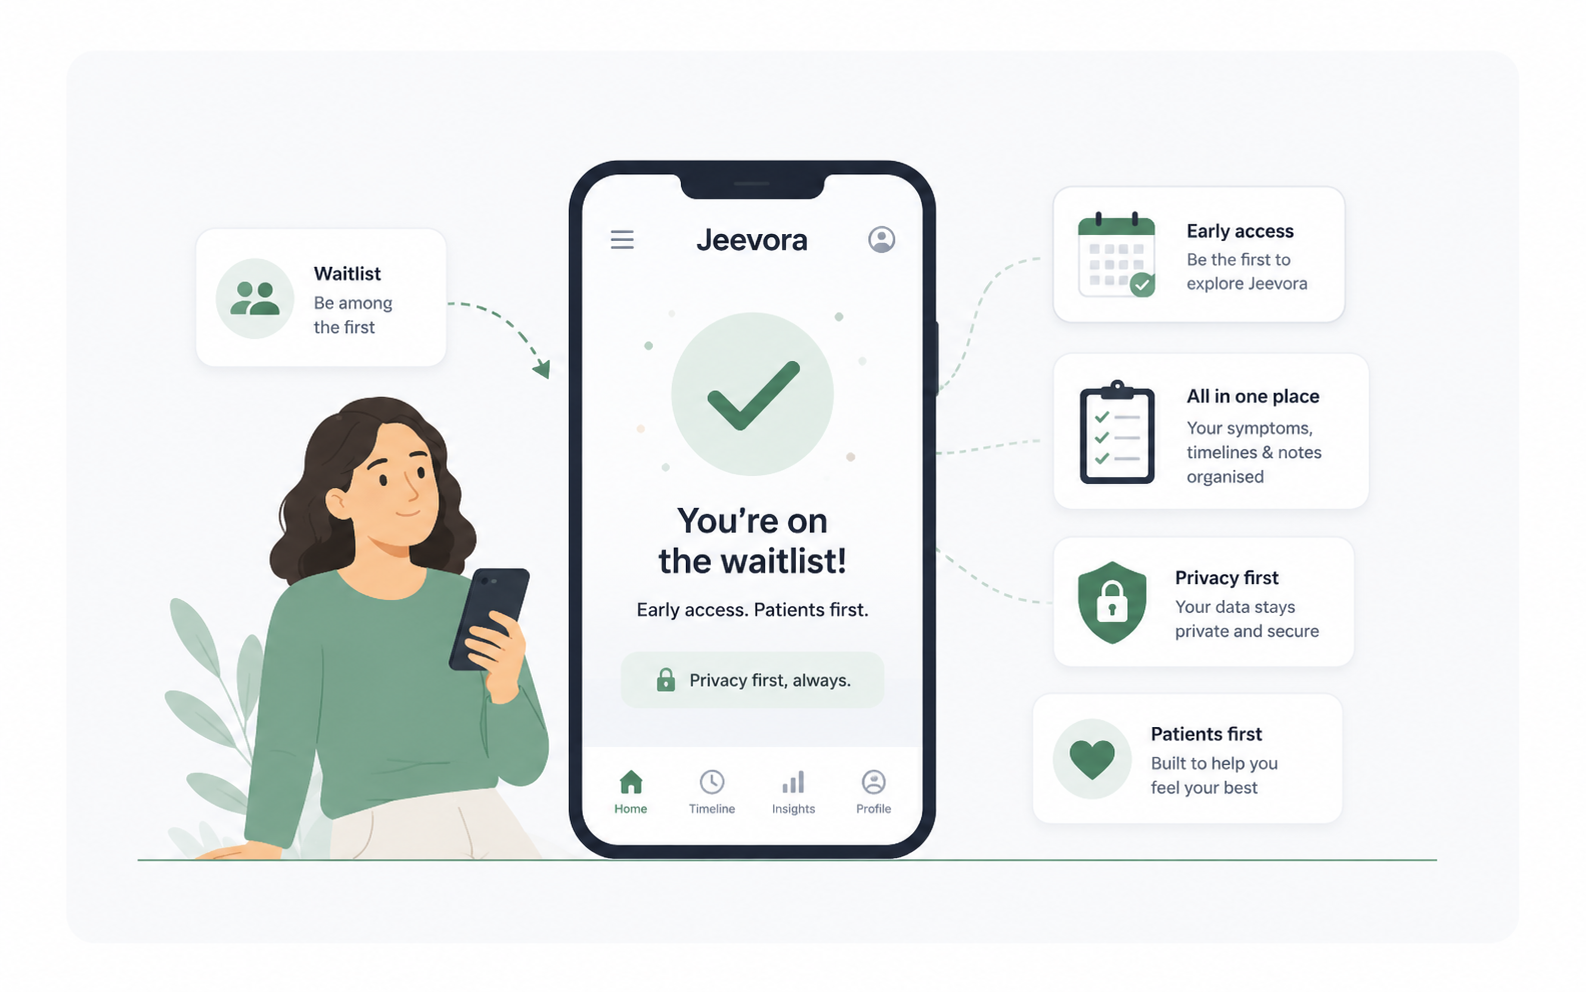
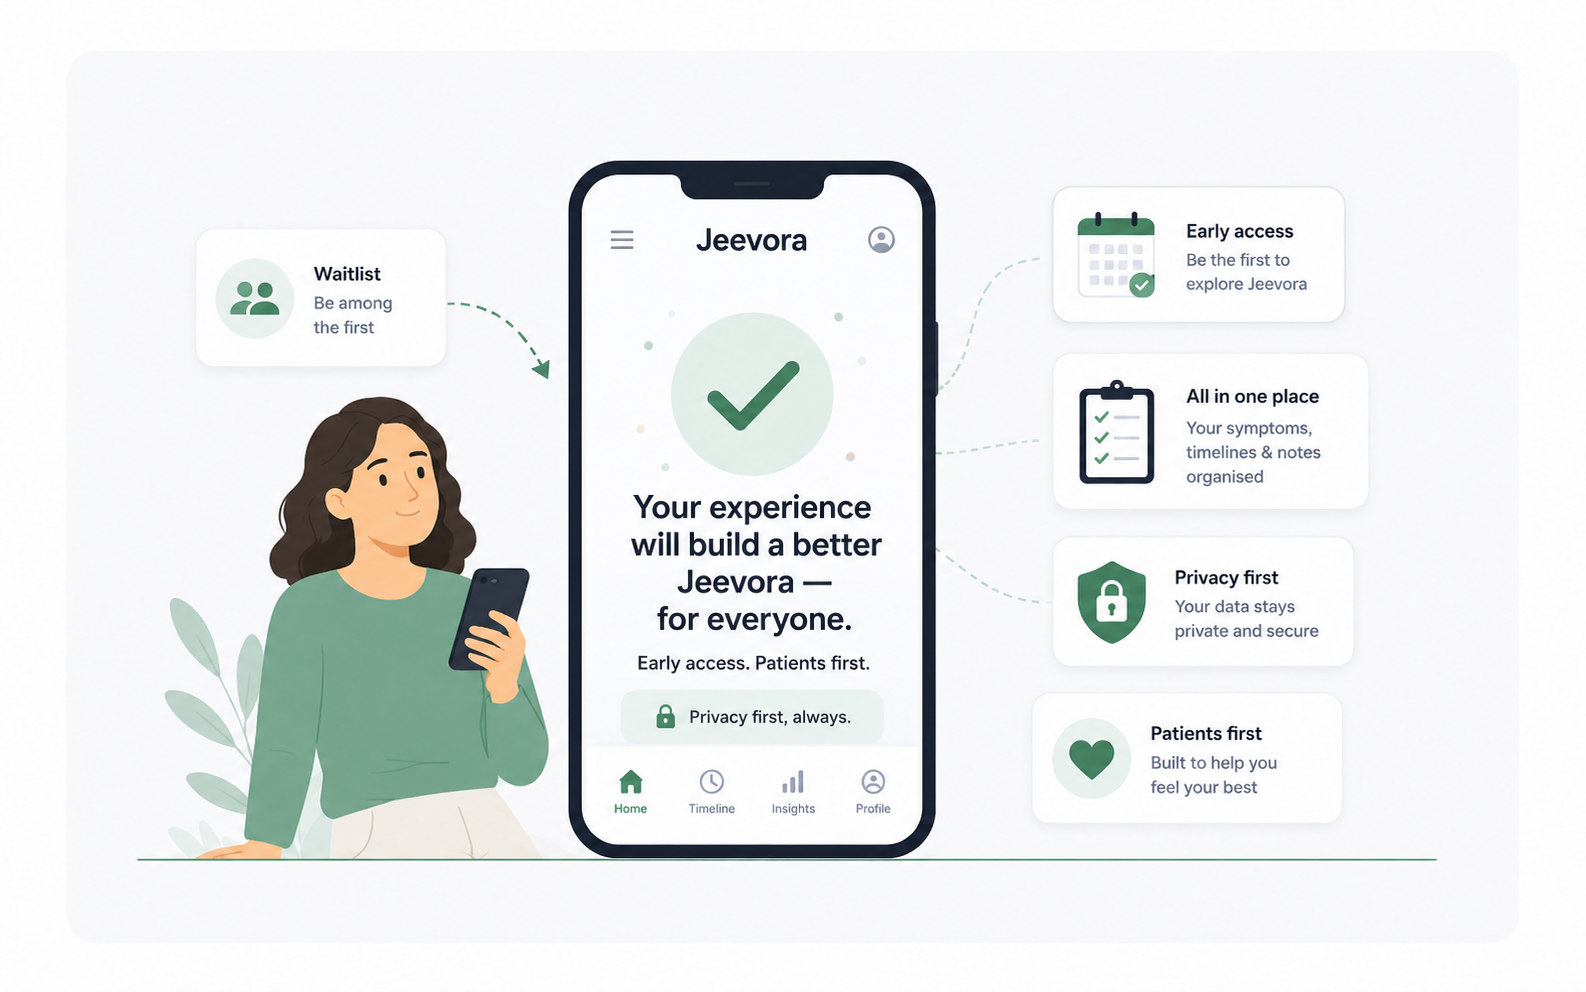
Rebrand: rename Jeevora to Jeevora Care across the entire site
Updated all visible references — site title, logo text, meta descriptions,
footer copyright, navigation, page content, GP report preview, and all
descriptive copy — from Jeevora to Jeevora Care.

diff --git a/middleware.js b/middleware.js
@@ -1,0 +1,30 @@
+import { NextResponse } from "next/server";
+
+export function middleware(request) {
+  const authHeader = request.headers.get("authorization");
+
+  if (authHeader) {
+    const [scheme, encoded] = authHeader.split(" ");
+    if (scheme === "Basic" && encoded) {
+      const decoded = Buffer.from(encoded, "base64").toString("utf-8");
+      const [user, pass] = decoded.split(":");
+      if (
+        user === process.env.ADMIN_USER &&
+        pass === process.env.ADMIN_PASS
+      ) {
+        return NextResponse.next();
+      }
+    }
+  }
+
+  return new NextResponse("Unauthorized", {
+    status: 401,
+    headers: {
+      "WWW-Authenticate": 'Basic realm="Jeevora Admin"',
+    },
+  });
+}
+
+export const config = {
+  matcher: ["/admin/:path*"],
+};

diff --git a/layouts/partials/FreeDemoSection.js b/layouts/partials/FreeDemoSection.js
@@ -606,7 +606,7 @@ function ScreenGPReport() {
           </div>
           {/* Disclaimer */}
           <div style={{ fontSize:7, color:"#4b5563", lineHeight:1.5, marginBottom:8 }}>
-            Jeevora does not diagnose, recommend treatment, or replace medical advice. This report is a patient context tool only.
+            Jeevora Care does not diagnose, recommend treatment, or replace medical advice. This report is a patient context tool only.
           </div>
           {/* Download CTA */}
           <div style={{ background:G, borderRadius:20, padding:"9px", textAlign:"center", fontSize:10, fontWeight:700, color:"#fff" }}>Download PDF for GP</div>
@@ -863,13 +863,13 @@ const SCREENS_2 = [<ScreenMeds/>, <ScreenWearable/>];
 
 const FEATURES_1 = [
   { label:"Home dashboard",  heading:"Your unified daily view",     desc:"Wearable stats, today's entries, and a one-tap log button — all on one screen. Sleep quality and heart rate surface automatically from your connected device every morning." },
-  { label:"Symptom logging", heading:"SOCRATES, step by step",      desc:"Jeevora guides you through the clinical SOCRATES framework — onset, character, severity, and more. Chip selectors keep it quick; the voice fallback means you never have to type." },
-  { label:"Voice logging",   heading:"Just speak, we'll listen",    desc:"Tap record, describe your symptom naturally, and watch the fields populate in real time. Jeevora parses your words so nothing gets lost on the way to your GP report." },
+  { label:"Symptom logging", heading:"SOCRATES, step by step",      desc:"Jeevora Care guides you through the clinical SOCRATES framework — onset, character, severity, and more. Chip selectors keep it quick; the voice fallback means you never have to type." },
+  { label:"Voice logging",   heading:"Just speak, we'll listen",    desc:"Tap record, describe your symptom naturally, and watch the fields populate in real time. Jeevora Care parses your words so nothing gets lost on the way to your GP report." },
 ];
 
 const FEATURES_2 = [
   { label:"Medication tracking", heading:"Morning done. Evening pending.",         desc:"See your full medication schedule at a glance. Green ticks confirm what's taken; amber alerts flag anything missed. Forgotten doses are automatically noted in your next GP report." },
-  { label:"Wearable linkage",    heading:"Your wrist knows things your GP doesn't — yet.",   desc:"Sleep, heart rate, HRV, steps — pulled automatically from Apple Watch, Fitbit, Garmin, and more. Jeevora reads the patterns hiding in your data and surfaces them to your doctor before they become problems." },
+  { label:"Wearable linkage",    heading:"Your wrist knows things your GP doesn't — yet.",   desc:"Sleep, heart rate, HRV, steps — pulled automatically from Apple Watch, Fitbit, Garmin, and more. Jeevora Care reads the patterns hiding in your data and surfaces them to your doctor before they become problems." },
 ];
 
 const SCREENS_3 = [<ScreenFood/>, <ScreenWorkout/>];
@@ -877,12 +877,12 @@ const SCREENS_4 = [<ScreenGPReport/>, <ScreenAppointmentPrep/>];
 
 const FEATURES_3 = [
   { label:"Nutrition tracking", heading:"Log meals in seconds",    desc:"Tap to add what you ate — breakfast, lunch, dinner, snacks. Macros and calorie totals build automatically, and unusual dietary patterns surface in your GP report without you having to think about it." },
-  { label:"Exercise logging",   heading:"Move more, know more",    desc:"Log workouts manually or let your wearable sync them automatically. Jeevora connects exercise patterns to symptoms — so your GP sees exactly how your activity affects your health." },
+  { label:"Exercise logging",   heading:"Move more, know more",    desc:"Log workouts manually or let your wearable sync them automatically. Jeevora Care connects exercise patterns to symptoms — so your GP sees exactly how your activity affects your health." },
 ];
 
 const FEATURES_4 = [
-  { label:"GP-ready reports",    heading:"Your health story, told clearly",        desc:"Jeevora compiles every log into a structured, non-diagnostic summary — symptoms, medications, lifestyle patterns, missed doses — formatted for your GP to read in under two minutes." },
-  { label:"Appointment prep",    heading:"Never forget what is on your mind",          desc:"Note your questions and key concerns before you walk in. Jeevora surfaces the most important things to raise so nothing gets lost in a 10-minute appointment." },
+  { label:"GP-ready reports",    heading:"Your health story, told clearly",        desc:"Jeevora Care compiles every log into a structured, non-diagnostic summary — symptoms, medications, lifestyle patterns, missed doses — formatted for your GP to read in under two minutes." },
+  { label:"Appointment prep",    heading:"Never forget what is on your mind",          desc:"Note your questions and key concerns before you walk in. Jeevora Care surfaces the most important things to raise so nothing gets lost in a 10-minute appointment." },
 ];
 
 const SCREENS_5 = [<ScreenFoodLog/>, <ScreenPeriodLog/>];
@@ -1044,7 +1044,7 @@ export default function FreeDemoSection() {
       {/* ── Subsection 1: white bg · text LEFT · phone RIGHT ── */}
       <div style={{ background:"#fff", padding:"70px 0", borderTop:"1px solid #f1f5f9" }}>
         <div style={{ maxWidth:1140, margin:"0 auto", padding:"0 1.5rem" }}>
-          {sectionHeader("1","Log your health, your way","From a quick voice note to a structured SOCRATES symptom log — Jeevora works the way you think.")}
+          {sectionHeader("1","Log your health, your way","From a quick voice note to a structured SOCRATES symptom log — Jeevora Care works the way you think.")}
           <div className="jv-s1-row" style={{ display:"flex", alignItems:"stretch", gap:48, justifyContent:"center" }}>
             <div style={{ flex:"1 1 0", maxWidth:520 }}>
               <FeatureBlocks features={FEATURES_1} rowClass="jv-s1-row"/>
@@ -1070,7 +1070,7 @@ export default function FreeDemoSection() {
       {/* ── Subsection 3: white bg · text LEFT · phone RIGHT ── */}
       <div style={{ background:"#fff", padding:"70px 0", borderTop:"1px solid #f1f5f9" }}>
         <div style={{ maxWidth:1140, margin:"0 auto", padding:"0 1.5rem" }}>
-          {sectionHeader("3","Track how you fuel and move","Meals, macros, and workouts logged in seconds. Jeevora connects your lifestyle to your symptoms so your GP sees the complete picture.")}
+          {sectionHeader("3","Track how you fuel and move","Meals, macros, and workouts logged in seconds. Jeevora Care connects your lifestyle to your symptoms so your GP sees the complete picture.")}
           <div className="jv-s3-row" style={{ display:"flex", alignItems:"stretch", gap:48, justifyContent:"center" }}>
             <div style={{ flex:"1 1 0", maxWidth:520 }}>
               <FeatureBlocks features={FEATURES_3} rowClass="jv-s3-row"/>
@@ -1096,7 +1096,7 @@ export default function FreeDemoSection() {
       {/* ── Subsection 5: white bg · text LEFT · phone RIGHT ── */}
       <div style={{ background:"#fff", padding:"70px 0", borderTop:"1px solid #f1f5f9" }}>
         <div style={{ maxWidth:1140, margin:"0 auto", padding:"0 1.5rem" }}>
-          {sectionHeader("5","Track your cycle, understand your body","Log meals, symptoms, flow, and mood through your cycle. Jeevora connects the patterns so your GP has the full picture before you even walk in.")}
+          {sectionHeader("5","Track your cycle, understand your body","Log meals, symptoms, flow, and mood through your cycle. Jeevora Care connects the patterns so your GP has the full picture before you even walk in.")}
           <div className="jv-s5-row" style={{ display:"flex", alignItems:"stretch", gap:48, justifyContent:"center" }}>
             <div style={{ flex:"1 1 0", maxWidth:520 }}>
               <FeatureBlocks features={FEATURES_5} rowClass="jv-s5-row"/>

diff --git a/layouts/Contact.js b/layouts/Contact.js
@@ -81,7 +81,7 @@ const Contact = () => {
             margin: "0 0 16px",
             lineHeight: 1.2,
           }}>
-            Your experience builds a better Jeevora — for everyone.
+            Your experience builds a better Jeevora Care — for everyone.
           </h1>
           <p style={{
             fontSize: 17,
@@ -90,7 +90,7 @@ const Contact = () => {
             maxWidth: 480,
             margin: "0 auto 16px",
           }}>
-            You know what it feels like to sit in a 10-minute appointment and forget half of what you meant to say. We're building Jeevora so that never happens again — and we need patients like you to get it right.
+            You know what it feels like to sit in a 10-minute appointment and forget half of what you meant to say. We're building Jeevora Care so that never happens again — and we need patients like you to get it right.
           </p>
           <p style={{
             fontSize: 17,
@@ -302,7 +302,7 @@ const Contact = () => {
                 marginTop: 14,
                 lineHeight: 1.5,
               }}>
-                No spam. We'll only reach out when Jeevora is ready for you.
+                No spam. We'll only reach out when Jeevora Care is ready for you.
               </p>
             </form>
           )}

diff --git a/app/layout.js b/app/layout.js
@@ -6,8 +6,8 @@ import Providers from "@layouts/partials/Providers";
 import "../styles/style.scss";
 
 export const metadata = {
-  title: "Jeevora",
-  description: "Jeevora – Your trusted health platform",
+  title: "Jeevora Care",
+  description: "Jeevora Care – Your trusted health platform",
 };
 
 export default function RootLayout({ children }) {

diff --git a/layouts/Product.js b/layouts/Product.js
@@ -37,9 +37,9 @@ const Product = ({ data }) => {
       <section id="features" className="section">
         <div className="container">
           <div className="mb-14 text-center">
-            <h1 className="h2 mb-3">Jeevora Product</h1>
+            <h1 className="h2 mb-3">Jeevora Care Product</h1>
             <p className="mx-auto max-w-xl text-lg">
-              Everything Jeevora offers — from daily tracking features to the
+              Everything Jeevora Care offers — from daily tracking features to the
               privacy-first platform it runs on.
             </p>
           </div>

diff --git a/layouts/partials/GPReportPreview.js b/layouts/partials/GPReportPreview.js
@@ -86,7 +86,7 @@ export default function GPReportPreview() {
           <div style={{ display: "flex", justifyContent: "space-between", alignItems: "flex-start" }}>
             <div>
               <div style={{ color: "#fff", fontWeight: 700, fontSize: 14, fontFamily: "sans-serif", letterSpacing: 0.2 }}>
-                Jeevora
+                Jeevora Care
               </div>
               <div style={{ color: "#a7f3d0", fontSize: 9.5, fontFamily: "sans-serif", marginTop: 1 }}>
                 GP-Ready Patient Report
@@ -260,7 +260,7 @@ export default function GPReportPreview() {
             alignItems: "center",
           }}>
             <div style={{ fontSize: 7, color: "#9ca3af", fontFamily: "sans-serif", lineHeight: 1.5, maxWidth: 260 }}>
-              Jeevora does not diagnose or recommend treatment. This report is a patient context tool only and does not replace medical advice.
+              Jeevora Care does not diagnose or recommend treatment. This report is a patient context tool only and does not replace medical advice.
             </div>
             <div style={{
               background: G,

diff --git a/app/admin/waitlist/page.js b/app/admin/waitlist/page.js
@@ -10,7 +10,7 @@ export default async function WaitlistAdmin() {
       {/* Header */}
       <div style={{ marginBottom: 32 }}>
         <h1 style={{ fontSize: 26, fontWeight: 700, color: "#0f172a", margin: 0 }}>
-          Jeevora — Waitlist
+          Jeevora Care — Waitlist
         </h1>
         <p style={{ color: "#64748b", marginTop: 6, fontSize: 14 }}>
           {entries.length === 0

diff --git a/layouts/partials/Footer.js b/layouts/partials/Footer.js
@@ -32,7 +32,7 @@ const Footer = () => {
           })}
           {/* social icons */}
           <div className="md-12 sm:col-6 lg:col-3">
-            <Link href="/" aria-label="Jeevora">
+            <Link href="/" aria-label="Jeevora Care">
               <Image
                 src={config.site.logo}
                 width={config.site.logo_width}

diff --git a/layouts/partials/Workflow.js b/layouts/partials/Workflow.js
@@ -11,7 +11,7 @@ const steps = [
     number: "02",
     icon: "📊",
     title: "Track patterns",
-    desc: "Jeevora connects your data over time, identifying trends in severity, frequency, and duration that a single appointment never could.",
+    desc: "Jeevora Care connects your data over time, identifying trends in severity, frequency, and duration that a single appointment never could.",
   },
   {
     number: "03",

diff --git a/content/_index.md b/content/_index.md
@@ -1,7 +1,7 @@
 ---
 banner:
   title: "Track your symptoms. Untangle the overlap. Maintain your health — and walk into every GP appointment prepared."
-  content: "When symptoms overlap — fatigue, pain, mood shifts, medication side-effects — it's hard to know what to tell your doctor, and even harder to explain it clearly in a 10-minute NHS appointment. Jeevora helps you log and separate what's happening day by day, spot patterns over time, and build a plain-language GP-ready summary. Not just for appointments — for staying on top of your health every day."
+  content: "When symptoms overlap — fatigue, pain, mood shifts, medication side-effects — it's hard to know what to tell your doctor, and even harder to explain it clearly in a 10-minute NHS appointment. Jeevora Care helps you log and separate what's happening day by day, spot patterns over time, and build a plain-language GP-ready summary. Not just for appointments — for staying on top of your health every day."
   image: /images/homepage-image.png
   button:
     label: "Join Waitlist"
@@ -16,7 +16,7 @@ feature:
     content: "Log symptoms with timeline, severity, frequency, and duration — so you never forget what happened or when."
   - name: "GP-Ready Reports"
     icon: "/images/code.svg"
-    content: "Jeevora turns your health logs into a clear, structured summary your doctor can actually use — no jargon, no diagnosis."
+    content: "Jeevora Care turns your health logs into a clear, structured summary your doctor can actually use — no jargon, no diagnosis."
   - name: "Privacy First"
     icon: "/images/oop.svg"
     content: "Your data is yours. Every consent decision you make is recorded in an immutable, auditable log — so your privacy isn't just a company promise, it's verifiable."
@@ -28,12 +28,12 @@ feature:
     content: "Log sleep, mood, meals, exercise, and wellbeing changes to build a complete picture of your health — not just your symptoms."
   - name: "Wearable Integration"
     icon: "/images/cloud.svg"
-    content: "Jeevora is designed to connect with major wearable devices, bringing activity, sleep, and health data into one organised place."
+    content: "Jeevora Care is designed to connect with major wearable devices, bringing activity, sleep, and health data into one organised place."
 
 # services
 services:
   - title: "Remember everything that matters before your appointment"
-    content: "By the time your appointment arrives, it's easy to forget the symptom that started three weeks ago, the medication that made things worse, or the question you kept meaning to ask. Jeevora keeps a running log so nothing slips through the cracks — symptom timelines, severity, frequency, medication changes, and your own notes, all in one place. Walk in with everything recorded, organised, and ready to share."
+    content: "By the time your appointment arrives, it's easy to forget the symptom that started three weeks ago, the medication that made things worse, or the question you kept meaning to ask. Jeevora Care keeps a running log so nothing slips through the cracks — symptom timelines, severity, frequency, medication changes, and your own notes, all in one place. Walk in with everything recorded, organised, and ready to share."
     images:
       - "/images/remember.png"
     button:
@@ -41,8 +41,8 @@ services:
       label: Join Waitlist
       link: /contact
 
-  - title: "When symptoms overlap, Jeevora untangles them"
-    content: "Your headaches could be tied to poor sleep. Your mood shifts could be a symptom, not a feeling. When you are managing multiple things at once, everything blurs together — and a 10-minute GP appointment is not enough time to separate them. Jeevora logs each symptom independently, tracks frequency and severity over time, and flags patterns across categories. So instead of arriving at your appointment with a vague sense that something is wrong, you arrive with a clear, separated picture of what is happening — and when, and how often. Your GP gets the context they need. You get to be heard."
+  - title: "When symptoms overlap, Jeevora Care untangles them"
+    content: "Your headaches could be tied to poor sleep. Your mood shifts could be a symptom, not a feeling. When you are managing multiple things at once, everything blurs together — and a 10-minute GP appointment is not enough time to separate them. Jeevora Care logs each symptom independently, tracks frequency and severity over time, and flags patterns across categories. So instead of arriving at your appointment with a vague sense that something is wrong, you arrive with a clear, separated picture of what is happening — and when, and how often. Your GP gets the context they need. You get to be heard."
     images: 
       - "/images/overlapping.png"
     button:
@@ -51,7 +51,7 @@ services:
       link: /contact
   
   - title: "Privacy-first, by design — not as an afterthought"
-    content: "Jeevora was built with cybersecurity and privacy at its core. Your health data never interferes with NHS systems, is never sold, and is always handled with your explicit consent. But we go further than a company promise — every consent decision you make is recorded in an immutable, auditable permission ledger, separate from your health data, which is stored encrypted in the cloud. The ledger tracks consent and permissions only — not your medical records. You can see exactly what you authorised, with whom, and when, and verify it yourself. No trust required — just proof. The founder's background in IT, cybersecurity, privacy-first design, and NHS volunteering means Jeevora takes the sensitivity of your health data as seriously as you do. You stay in control, always."
+    content: "Jeevora Care was built with cybersecurity and privacy at its core. Your health data never interferes with NHS systems, is never sold, and is always handled with your explicit consent. But we go further than a company promise — every consent decision you make is recorded in an immutable, auditable permission ledger, separate from your health data, which is stored encrypted in the cloud. The ledger tracks consent and permissions only — not your medical records. You can see exactly what you authorised, with whom, and when, and verify it yourself. No trust required — just proof. The founder's background in IT, cybersecurity, privacy-first design, and NHS volunteering means Jeevora Care takes the sensitivity of your health data as seriously as you do. You stay in control, always."
     images:
       - "/images/service-privacy.svg"
     button:
@@ -60,7 +60,7 @@ services:
       link: /contact
 
   - title: "Your health, tracked every day — not just when something feels wrong"
-    content: "Good health is built in the everyday moments — the sleep you get, the meals you eat, the movement you do, and how your body responds to all of it. Jeevora brings it all together in one organised, private place. Log workouts, nutrition, habits, and lifestyle routines. Connect your wearable to pull in sleep, heart rate, and activity automatically. Over time, Jeevora builds a picture of your health that goes far beyond a single symptom — helping you spot what is improving, what is shifting, and what is worth paying attention to before it becomes a problem."
+    content: "Good health is built in the everyday moments — the sleep you get, the meals you eat, the movement you do, and how your body responds to all of it. Jeevora Care brings it all together in one organised, private place. Log workouts, nutrition, habits, and lifestyle routines. Connect your wearable to pull in sleep, heart rate, and activity automatically. Over time, Jeevora Care builds a picture of your health that goes far beyond a single symptom — helping you spot what is improving, what is shifting, and what is worth paying attention to before it becomes a problem."
     images:
       - "/images/more-tracking.png"
     button:
@@ -70,14 +70,14 @@ services:
 
 # workflow
 workflow: 
-  title: "How Jeevora works"
+  title: "How Jeevora Care works"
   image: "/images/banner.svg"
-  description: "Track your symptoms and health daily. Jeevora organises everything into a clear GP-ready report — so when your appointment comes, you are prepared, confident, and able to make every minute count."
+  description: "Track your symptoms and health daily. Jeevora Care organises everything into a clear GP-ready report — so when your appointment comes, you are prepared, confident, and able to make every minute count."
 
 # call_to_action
 call_to_action:
-  title: "Your experience builds a better Jeevora — for everyone."
-  content: "You know what it feels like to sit in a 10-minute appointment and forget half of what you meant to say. We're building Jeevora so that never happens again — and we need patients like you to get it right.<br/><br/>*Join the waitlist. Get early access. Tell us what your health journey actually needs — and help shape an app that truly puts patients first.*"
+  title: "Your experience builds a better Jeevora Care — for everyone."
+  content: "You know what it feels like to sit in a 10-minute appointment and forget half of what you meant to say. We're building Jeevora Care so that never happens again — and we need patients like you to get it right.<br/><br/>*Join the waitlist. Get early access. Tell us what your health journey actually needs — and help shape an app that truly puts patients first.*"
   image: '/images/join-the-waitlist.png'
   button:
     enable: true

diff --git a/content/about.md b/content/about.md
@@ -1,15 +1,15 @@
 ---
-title: "About Jeevora"
+title: "About Jeevora Care"
 layout: "about"
-description: "Learn about Jeevora and the story behind the app."
+description: "Learn about Jeevora Care and the story behind the app."
 draft: false
 
 company:
-  title: "About Jeevora"
+  title: "About Jeevora Care"
   subtitle: "Privacy-first health tracking, built for UK patients"
-  content: "Jeevora is a privacy-first UK health app that helps patients track symptoms, understand their health, and prepare for GP appointments — without interfering with NHS systems. NHS England's waiting list stands at around 7.11 million, and the average GP appointment lasts just 10 minutes. When symptoms overlap — fatigue, mood shifts, medication side effects, poor sleep — it becomes hard to know what is connected and harder still to explain it clearly in the time you have. Jeevora helps you log, separate, and make sense of it all before you walk in."
+  content: "Jeevora Care is a privacy-first UK health app that helps patients track symptoms, understand their health, and prepare for GP appointments — without interfering with NHS systems. NHS England's waiting list stands at around 7.11 million, and the average GP appointment lasts just 10 minutes. When symptoms overlap — fatigue, mood shifts, medication side effects, poor sleep — it becomes hard to know what is connected and harder still to explain it clearly in the time you have. Jeevora Care helps you log, separate, and make sense of it all before you walk in."
   what_it_does:
-    heading: "What Jeevora does"
+    heading: "What Jeevora Care does"
     points:
       - "Records symptom timelines, severity, frequency, and duration"
       - "Manages overlapping symptoms by logging and interconnecting them to reveal the full picture"
@@ -19,25 +19,25 @@ company:
       - "Tracks sleep, mood, meals, exercise, and lifestyle changes"
       - "Designed to connect with major wearable devices"
   what_it_does_not:
-    heading: "What Jeevora does not do"
+    heading: "What Jeevora Care does not do"
     points:
       - "Diagnose or treat any condition"
       - "Book appointments or manage referrals"
       - "Replace your doctor or interfere with NHS systems"
       - "Share your data without your explicit consent — every permission you grant or revoke is recorded in an immutable, auditable log"
-  closing: "Most health apps collect data. Jeevora makes that data useful — connecting symptoms, lifestyle, and medication into a coherent picture that means something to you and to your doctor."
+  closing: "Most health apps collect data. Jeevora Care makes that data useful — connecting symptoms, lifestyle, and medication into a coherent picture that means something to you and to your doctor."
 
 founder:
   title: "About the Founder"
-  content: "Jeevora was founded with a clear purpose: to give patients the tools to communicate their health story more clearly, efficiently, and confidently. The founder brings a background in IT, cybersecurity, and privacy-first design — combined with direct NHS working and volunteering experience. This combination shapes everything about how Jeevora is built."
+  content: "Jeevora Care was founded with a clear purpose: to give patients the tools to communicate their health story more clearly, efficiently, and confidently. The founder brings a background in IT, cybersecurity, and privacy-first design — combined with direct NHS working and volunteering experience. This combination shapes everything about how Jeevora Care is built."
   pillars:
     - icon: "🔒"
       heading: "Cybersecurity & Privacy"
-      text: "A background in IT and cybersecurity means Jeevora treats data protection as a foundation, not a feature. Your health data is stored encrypted in the cloud — not on a blockchain. The blockchain records consent and permission decisions only, giving you cryptographic proof that every authorisation was carried out exactly as you specified."
+      text: "A background in IT and cybersecurity means Jeevora Care treats data protection as a foundation, not a feature. Your health data is stored encrypted in the cloud — not on a blockchain. The blockchain records consent and permission decisions only, giving you cryptographic proof that every authorisation was carried out exactly as you specified."
     - icon: "🏥"
       heading: "NHS Experience"
       text: "Having worked and volunteered within the NHS, the founder understands the real pressures patients and clinicians face — limited appointment time, complex histories, and the need for clarity over complexity."
     - icon: "🤝"
       heading: "Built for Patients"
-      text: "Jeevora exists because the founder has seen first-hand how patients struggle to communicate what matters most in a short appointment. The app is designed to close that gap — practically and respectfully."
+      text: "Jeevora Care exists because the founder has seen first-hand how patients struggle to communicate what matters most in a short appointment. The app is designed to close that gap — practically and respectfully."
 ---

diff --git a/content/pricing.md b/content/pricing.md
@@ -43,8 +43,8 @@ plans:
     link: "/contact"
 
 call_to_action:
-  title: "Your experience builds a better Jeevora — for everyone."
-  content: "You know what it feels like to sit in a 10-minute appointment and forget half of what you meant to say. We're building Jeevora so that never happens again — and we need patients like you to get it right.<br/><br/>*Join the waitlist. Get early access. Tell us what your health journey actually needs — and help shape an app that truly puts patients first.*"
+  title: "Your experience builds a better Jeevora Care — for everyone."
+  content: "You know what it feels like to sit in a 10-minute appointment and forget half of what you meant to say. We're building Jeevora Care so that never happens again — and we need patients like you to get it right.<br/><br/>*Join the waitlist. Get early access. Tell us what your health journey actually needs — and help shape an app that truly puts patients first.*"
   image: '/images/join-the-waitlist.png'
   button:
     enable: true